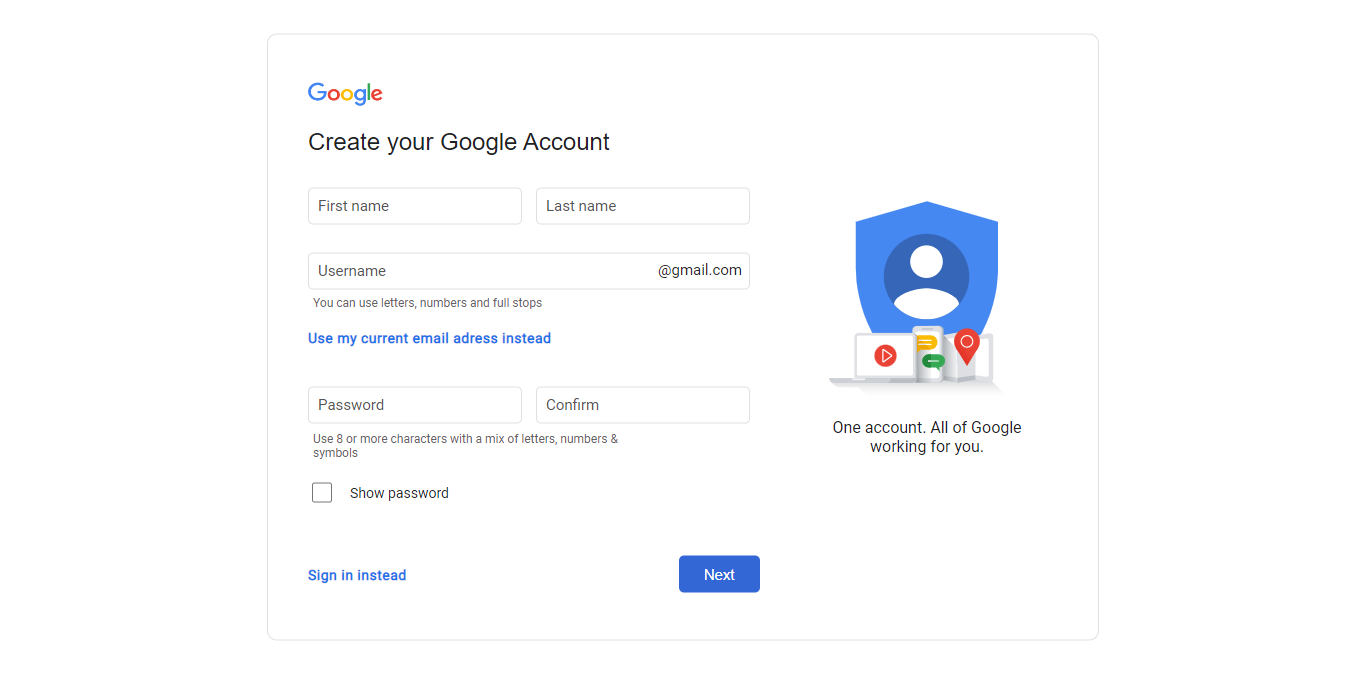
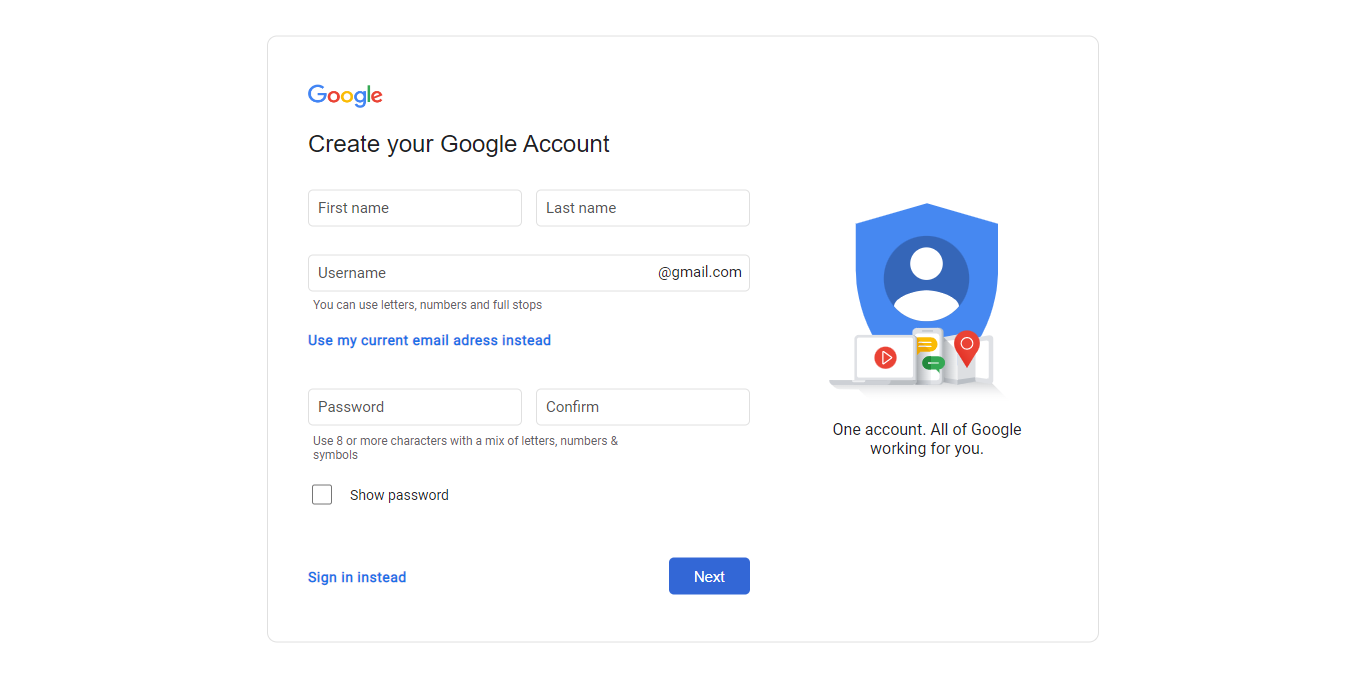
margin for button is changed

diff --git a/css/style.css b/css/style.css
@@ -160,7 +160,7 @@ button {
     border: none;
     border-radius: 5px;
     padding: 10px 25px;
-    margin:  30px 0 0 260px;
+    margin:  30px 0 0 250px;
     cursor: pointer;
     font-size: 15px;
 }
